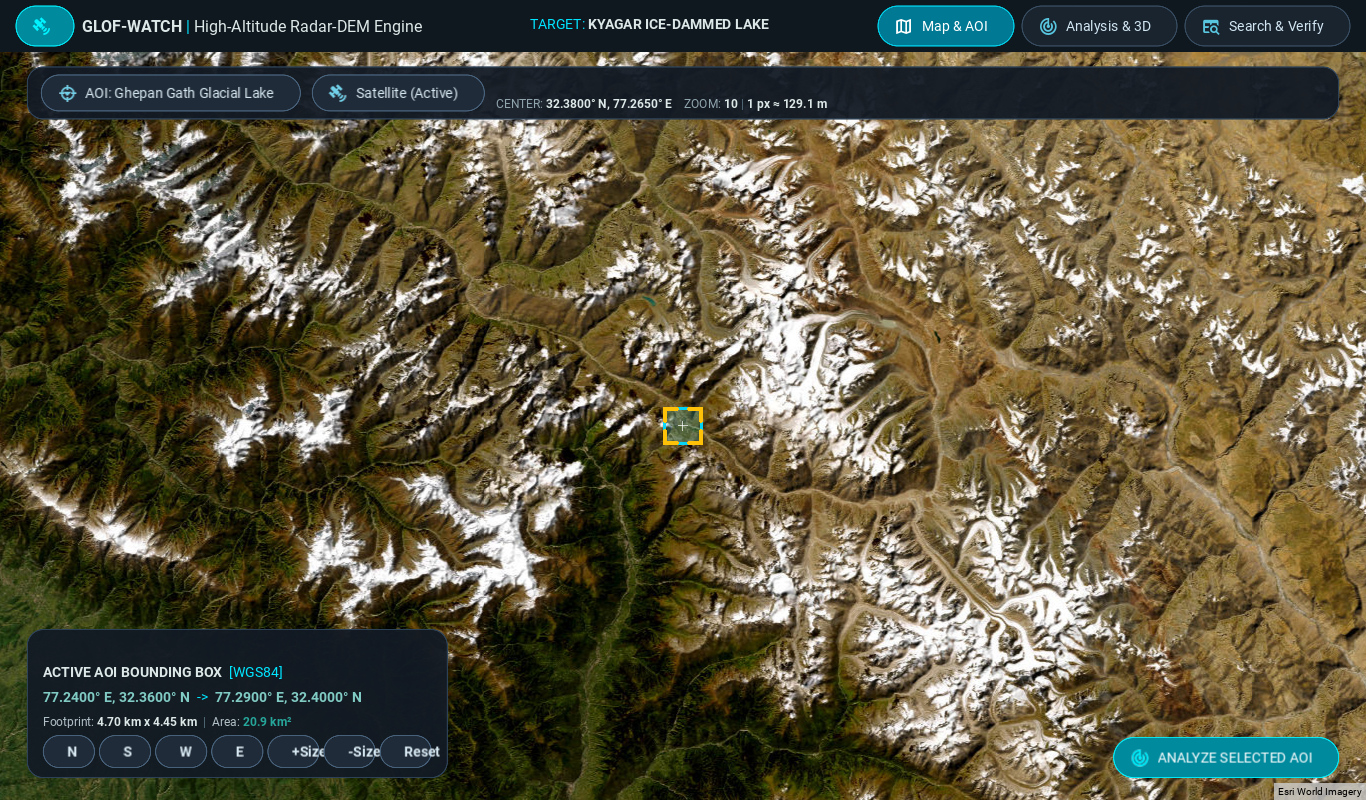
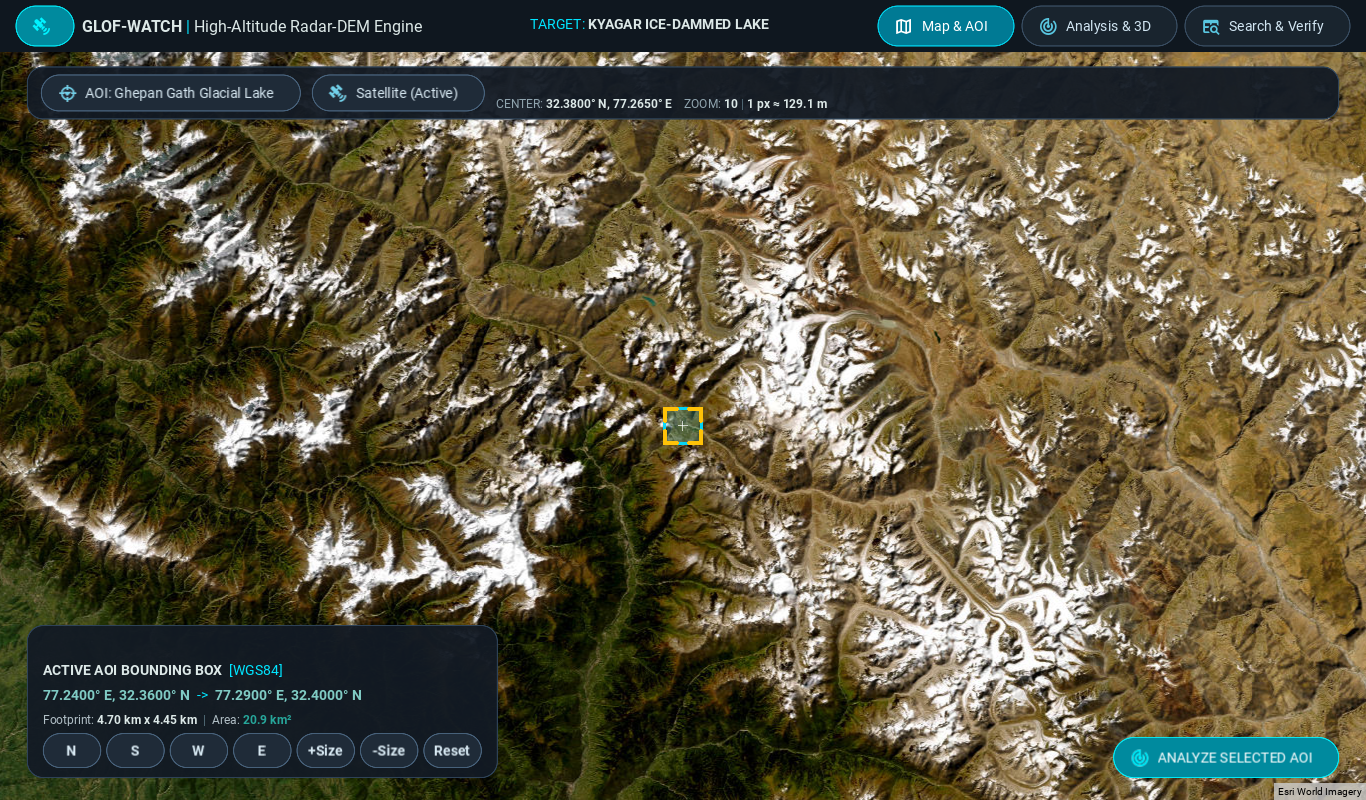
fix(ui): Widen AOI BBox card to 470dp and center button labels to prevent overflow

Changed region(s): [[0.0307, 0.7812, 0.369, 0.9688]]

diff --git a/glof_watch/ui/screens/map_screen.py b/glof_watch/ui/screens/map_screen.py
@@ -453,8 +453,8 @@ class MapScreen(MDScreen):
             style="outlined",
             pos_hint={"x": 0.02, "y": 0.03},
             size_hint=(None, None),
-            width=dp(420),
-            height=dp(148),
+            width=dp(470),
+            height=dp(152),
             padding=[dp(16), dp(10), dp(16), dp(10)],
         )
         apply_card_style(card)
@@ -499,9 +499,9 @@ class MapScreen(MDScreen):
         # -------------------------------------------------------------
         nudge_row = MDBoxLayout(
             orientation="horizontal",
-            spacing=dp(5),
+            spacing=dp(6),
             size_hint=(1, None),
-            height=dp(32),
+            height=dp(34),
             pos_hint={"center_x": 0.5}
         )
 
@@ -517,10 +517,14 @@ class MapScreen(MDScreen):
 
         for label_text, func in nudge_actions:
             btn = MDButton(
-                MDButtonText(text=f"[b]{label_text}[/b]", font_size="11sp"),
+                MDButtonText(
+                    text=f"[b]{label_text}[/b]",
+                    font_size="11sp",
+                    pos_hint={"center_x": 0.5, "center_y": 0.5}
+                ),
                 theme_width="Custom",
                 size_hint_x=1.0 / len(nudge_actions),
-                height=dp(32)
+                height=dp(34)
             )
             apply_button_style(btn, "secondary")
             btn.bind(on_release=lambda *a, f=func: f())
